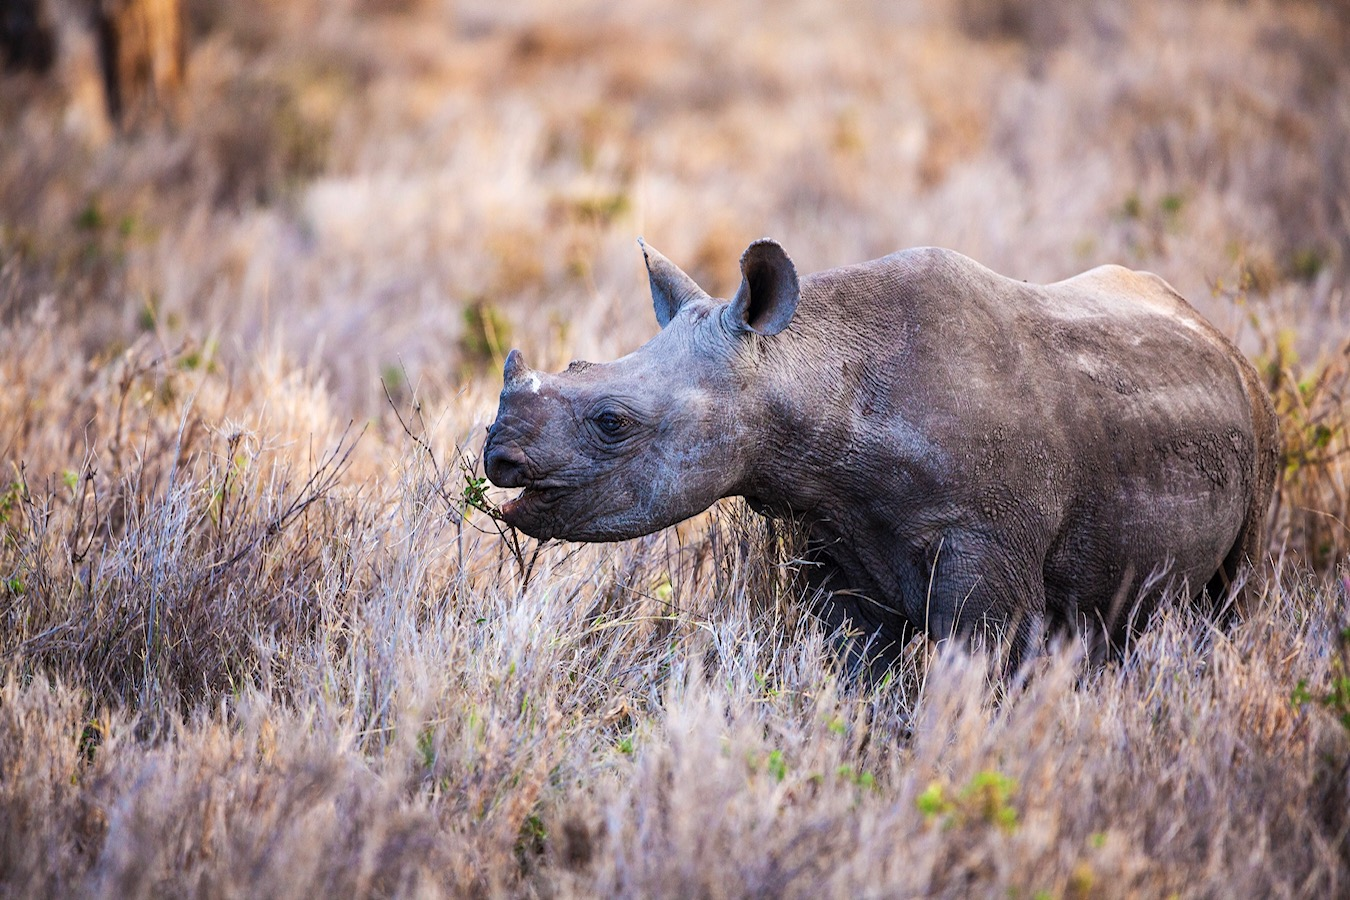
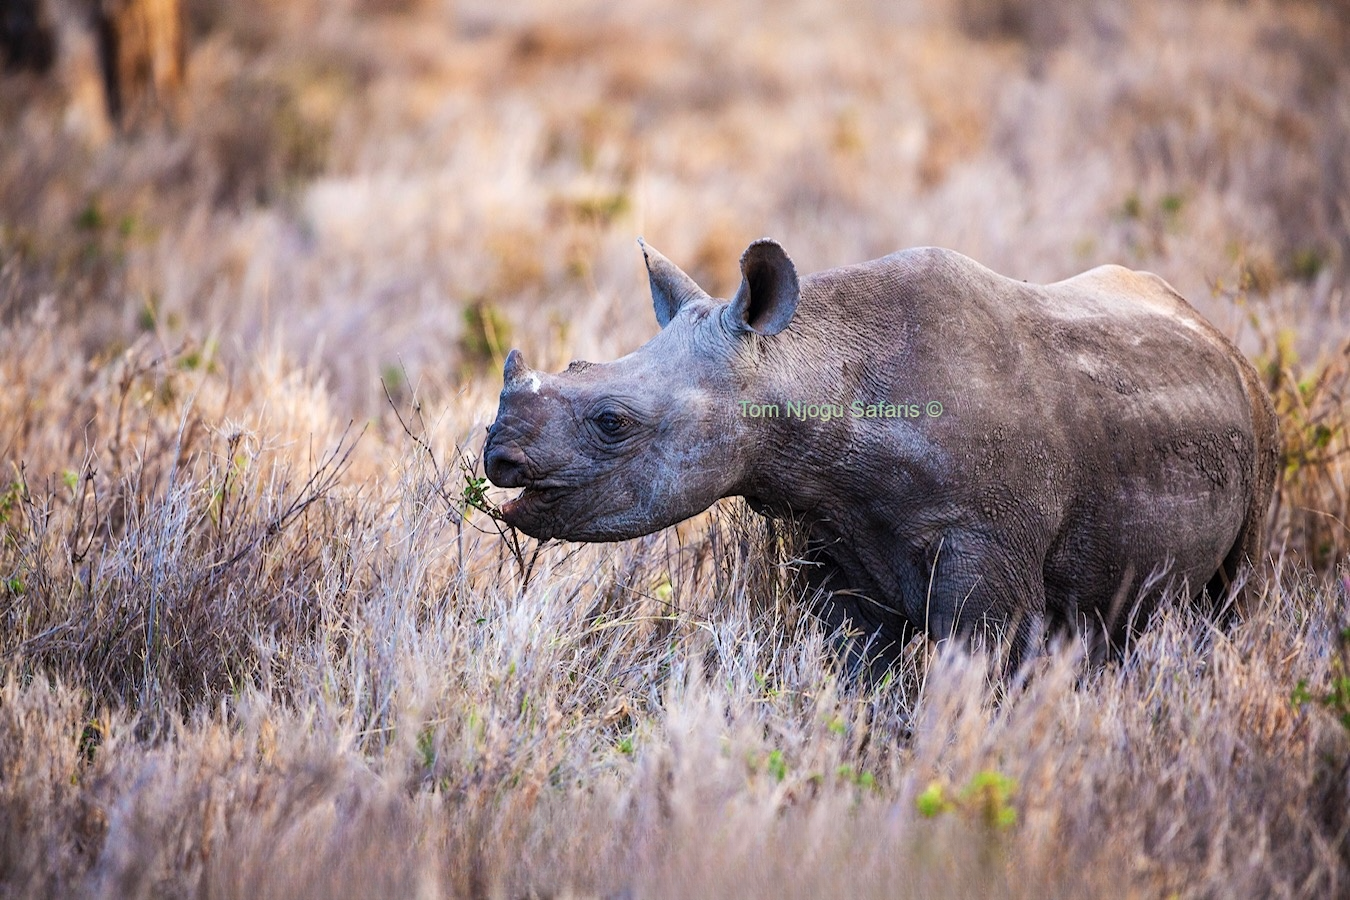
added image watermark

Changed region(s): [[0.1556, 0.8711, 0.84, 1.0], [0.5289, 0.4356, 0.7156, 0.4667]]

diff --git a/index.html b/index.html
@@ -110,15 +110,7 @@
 						</div>
 					</div>
 				</div>
-				<div class="col-lg-5">
-					<div class="slides">
-						<img src="images/_MG_9358 copy 1.JPG" alt="Image" class="img-fluid active">
-						<img src="images/_MG_9358 copy 1.JPG" alt="Image" class="img-fluid">
-						<img src="images/_MG_9358 copy 1.JPG" alt="Image" class="img-fluid">
-						<img src="images/_MG_9358 copy 1.JPG" alt="Image" class="img-fluid">
-						<img src="images/_MG_9358 copy 1.JPG" alt="Image" class="img-fluid">
-					</div>
-				</div>
+				
 			</div>
 		</div>
 	</div>
@@ -143,7 +135,7 @@
 
 					<div class="feature-1 d-md-flex">
 						<div class="align-self-center">
-							<span class="flaticon-house display-4 text-primary"></span>
+							<span class="flaticon-plane display-4 text-primary"></span>
 							<h3></h3>
 							<p class="mb-0">Nairobi, Amboseli, Lewa, Maasai Mara</p>
 						</div>
@@ -151,7 +143,7 @@
 
 					<div class="feature-1 ">
 						<div class="align-self-center">
-							<span class="flaticon-house display-4 text-primary"></span>
+							<span class="flaticon-plane display-4 text-primary"></span>
 							<h3></h3>
 							<p class="mb-0">Nairobi, Lewa, Maasai Mara
 							</p>
@@ -164,7 +156,7 @@
 
 					<div class="feature-1 d-md-flex">
 						<div class="align-self-center">
-							<span class="flaticon-house display-4 text-primary"></span>
+							<span class="flaticon-plane display-4 text-primary"></span>
 							<h3></h3>
 							<p class="mb-0">Nairobi, Amboseli, Samburu</p>
 						</div>
@@ -172,7 +164,7 @@
 
 					<div class="feature-1 d-md-flex">
 						<div class="align-self-center">
-							<span class="flaticon-house display-4 text-primary"></span>
+							<span class="flaticon-plane display-4 text-primary"></span>
 							<h3></h3>
 							<p class="mb-0">Nairobi, Lewa, Rift Valley, Maasai mara</p>
 							<p class="mb-0">Nairobi, Amboseli, Lewa, Rift valley</p>

diff --git a/css/style.css b/css/style.css
@@ -549,7 +549,7 @@ h1, .h1, h2, .h2, h3, .h3, h4, .h4 {
 
 .hero {
   padding: 7rem 0 10rem 0;
-  background: #808429;
+  background-image: url(/images/_MG_9088\ copy.jpg);
   margin-bottom: 100px; }
   .hero.hero-inner {
     padding: 9rem 0 7rem 0;
